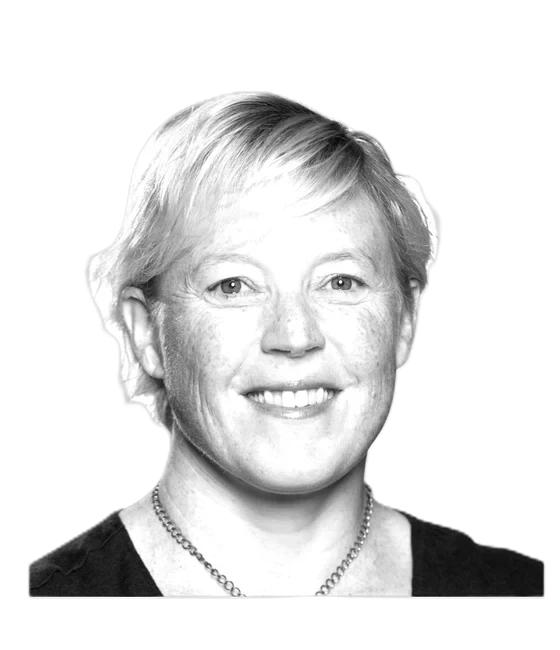
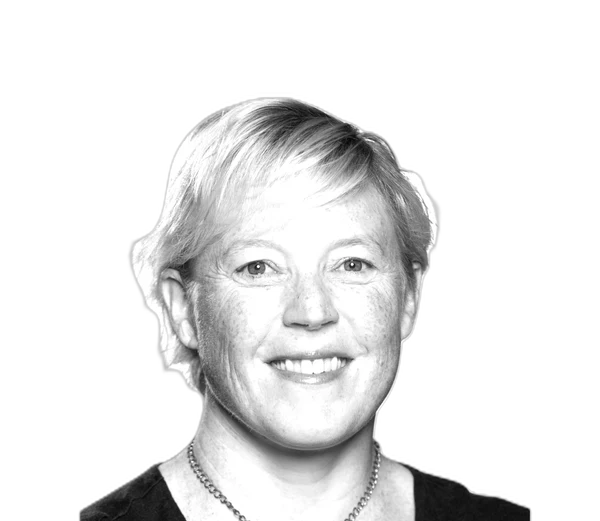
ID cards: smaller photos showing the whole head and shoulders, nothing cut off
Claude-Session: https://claude.ai/code/session_015HsWK3J51QiDdfrAUgvUwV

diff --git a/components/IdCard.module.css b/components/IdCard.module.css
@@ -159,8 +159,8 @@
   inset: 0;
   width: 100%;
   height: 100%;
-  object-fit: cover;
-  object-position: center 40%;
+  object-fit: contain;
+  object-position: center bottom;
 }
 
 .barcode {
